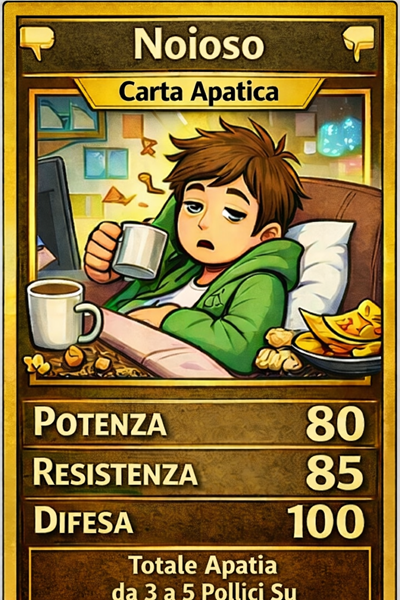
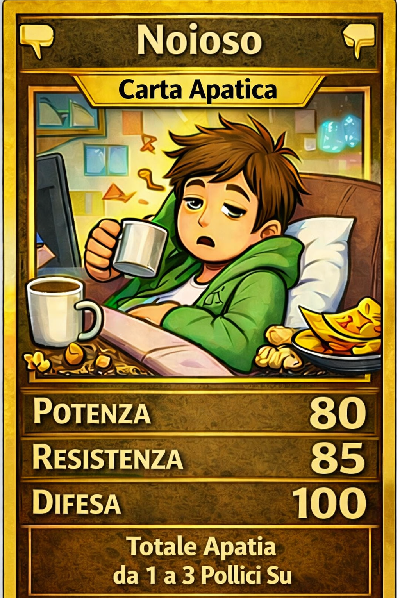
count range and card result changed

diff --git a/assets/js/script.js b/assets/js/script.js
@@ -198,7 +198,7 @@ form.addEventListener("submit", (event) =>
 // Gestione del count delle reazioni e cambio figure in funzione del risultato ottenuto
 let pCounter = document.querySelector("#reaction-counter");
 let nCount = 0;
-const TOTAL_COUNTS_LEVELS = [0, -10, -5, -2, 3, 6];
+const TOTAL_COUNTS_LEVELS = [0, -10, -5, -1, 1, 6];
 let actualFig;
 function countReactions(reactionType, el) {
   const gender = sessionStorage.getItem("gender");
@@ -223,8 +223,7 @@ function countReactions(reactionType, el) {
     idxFigure = 3;
   } else if (
     nCount >= TOTAL_COUNTS_LEVELS[4] &&
-    nCount < TOTAL_COUNTS_LEVELS[5]
-  ) {
+    nCount < TOTAL_COUNTS_LEVELS[5]) {
     console.log("Selected Fig 4");
     idxFigure = 4;
   } else if (nCount >= TOTAL_COUNTS_LEVELS[5]) {
